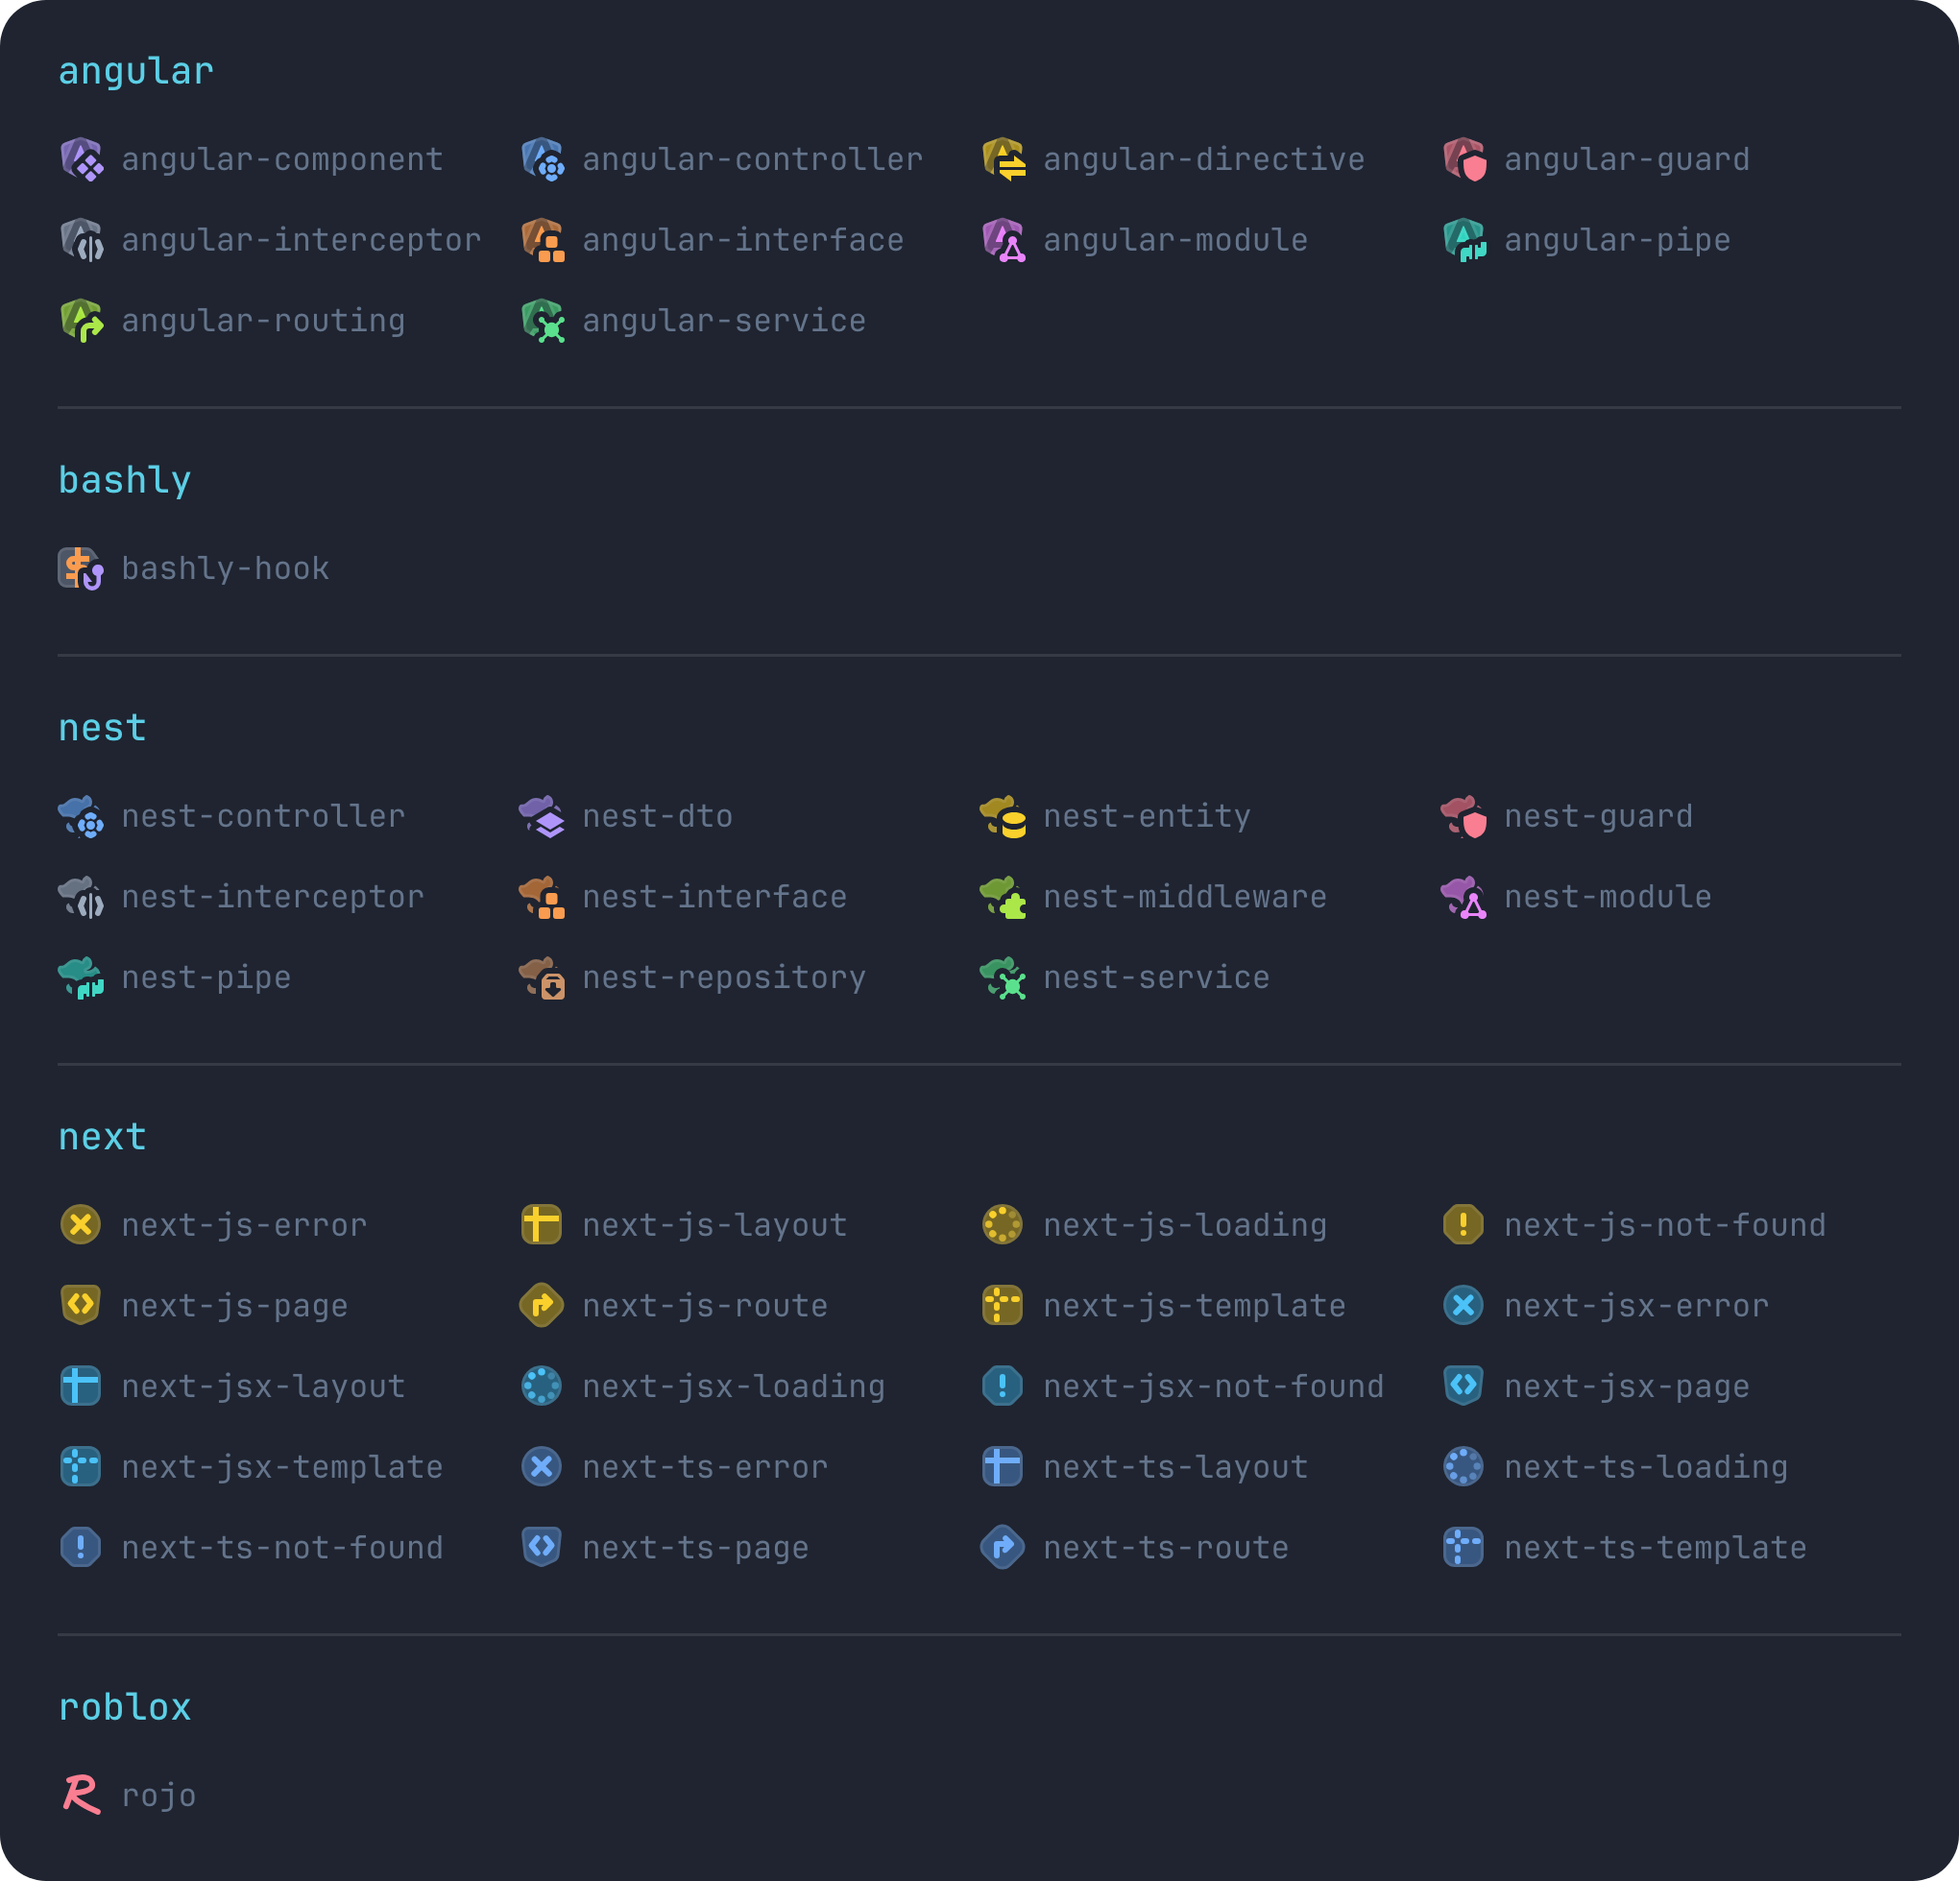
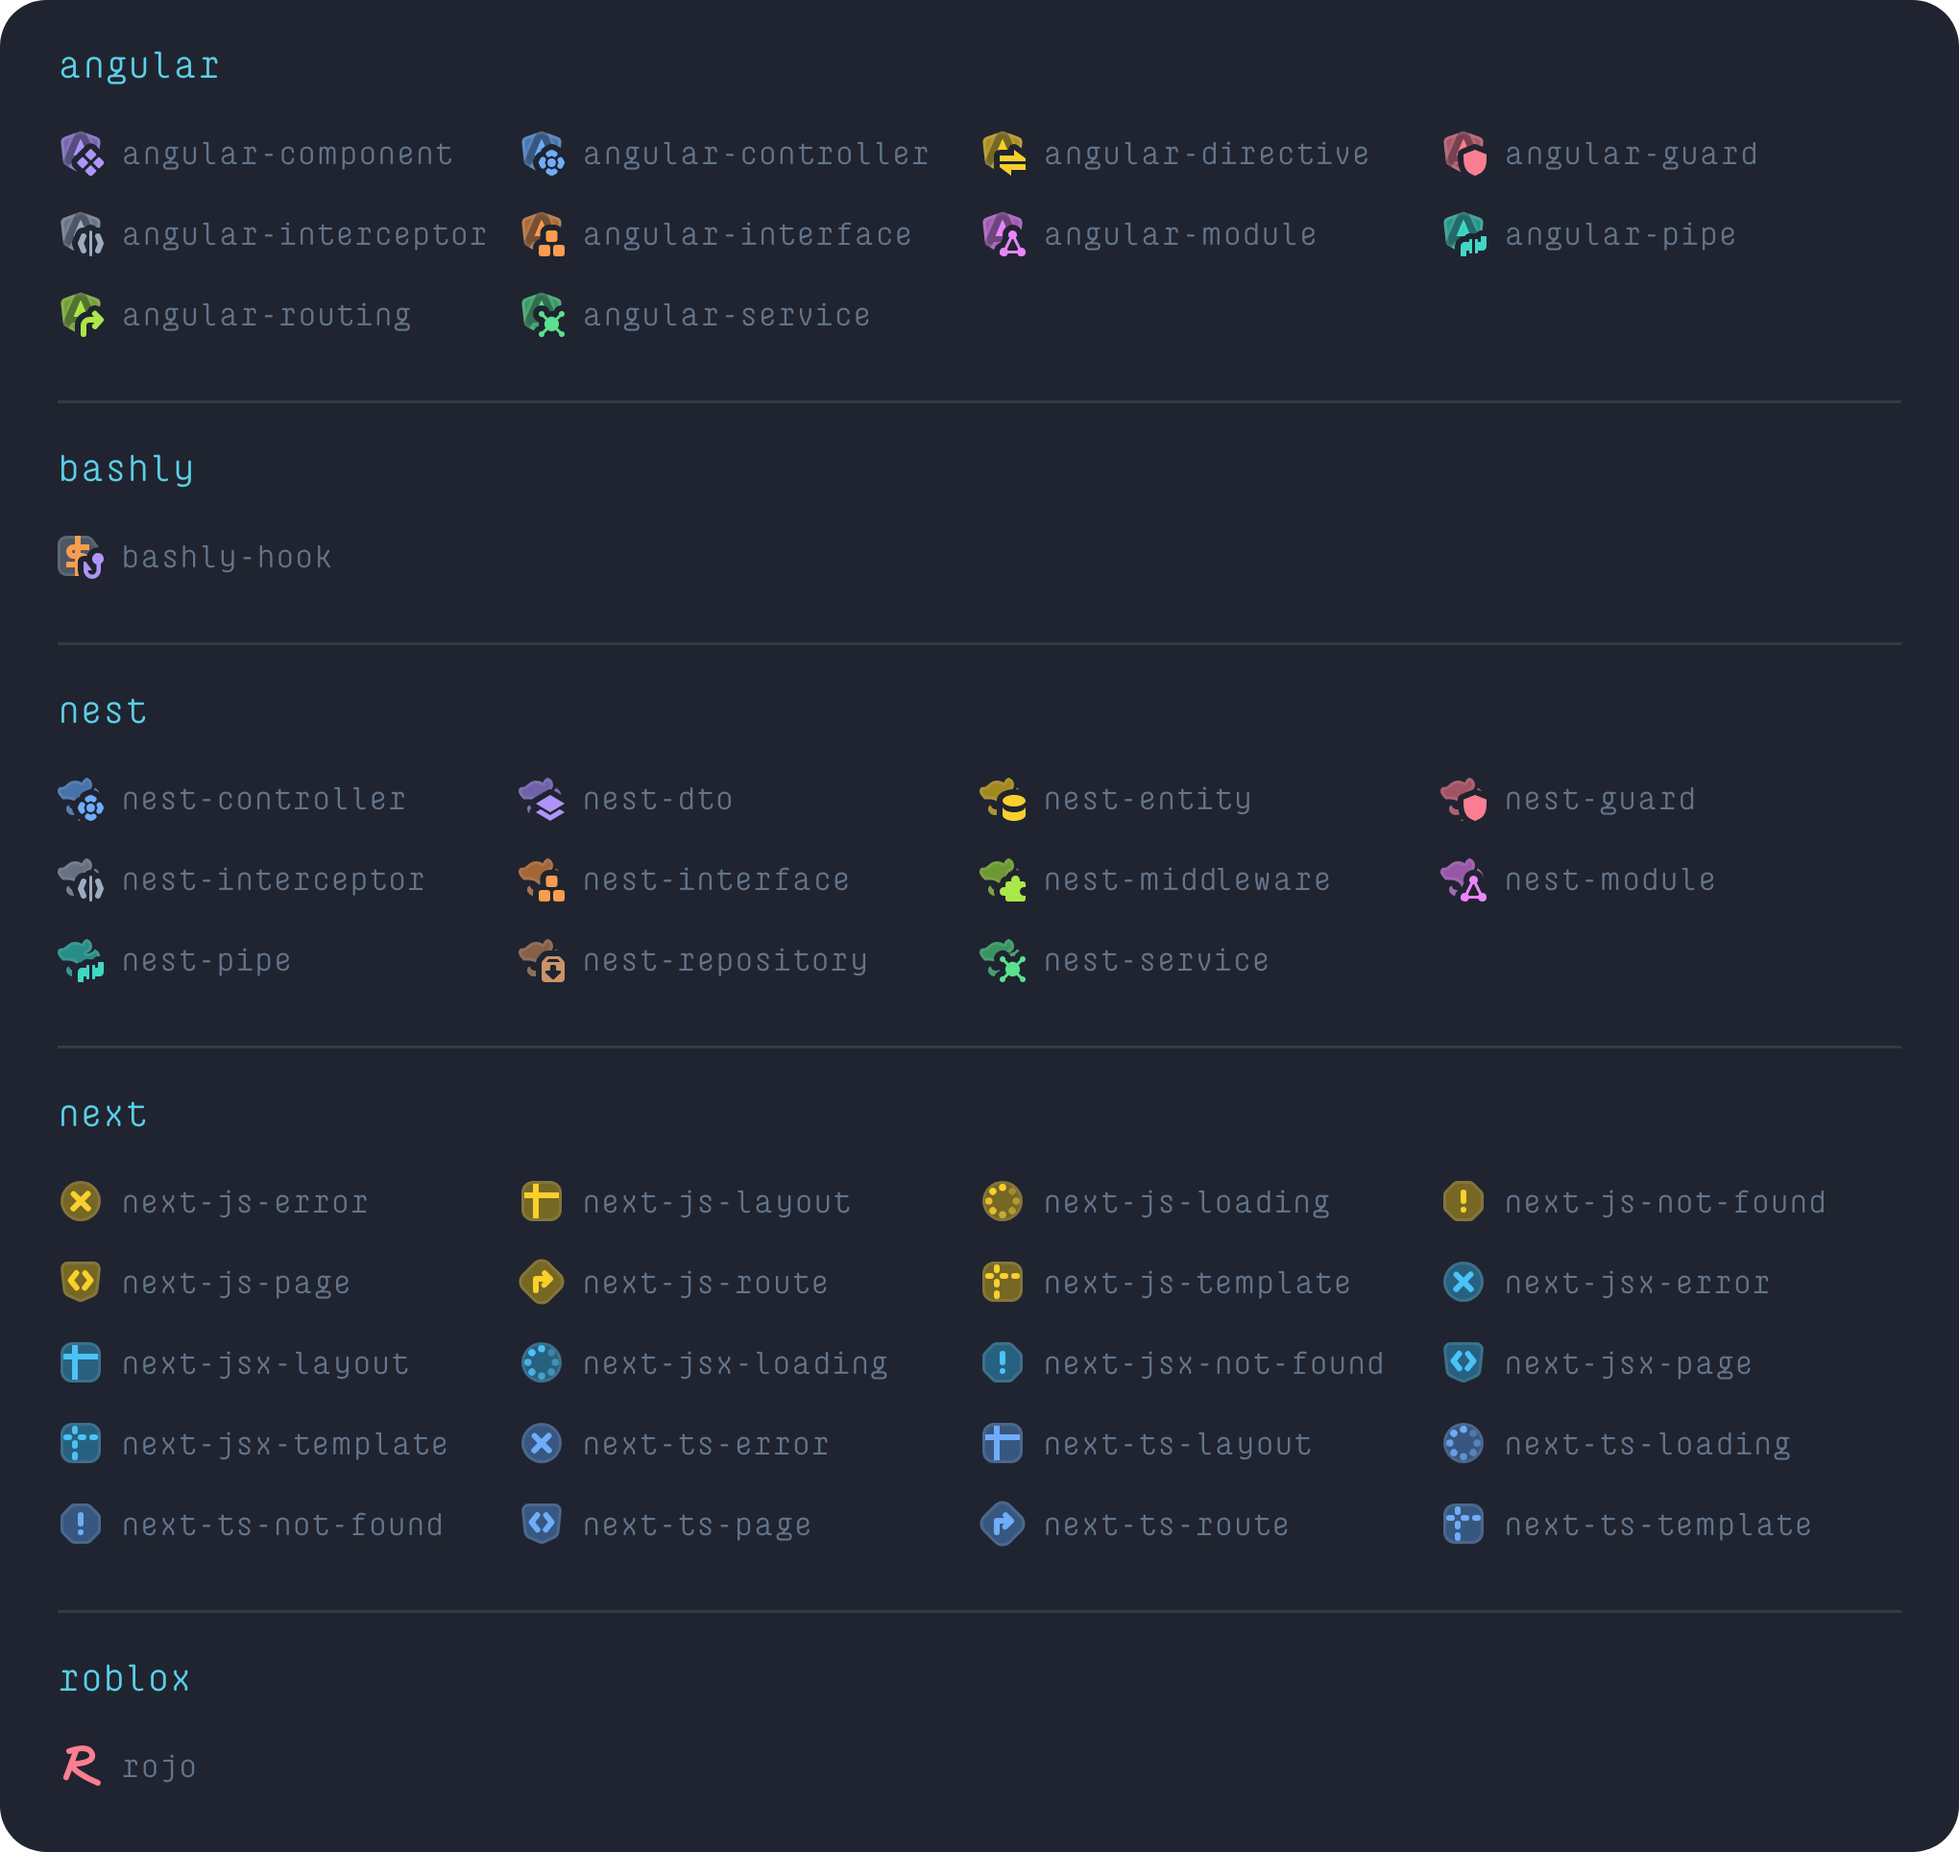
🌼 2.0.3

diff --git a/readme.md b/readme.md
@@ -33,6 +33,28 @@
   </picture>
 </p>
 
+## ✨ What's New
+
+### `Flow You` Icon Theme
+
+Introducing a whole new color palette made from your colors
+
+(See [Flow You](#flow-you) for more details)
+
+<img width="640" src="https://raw.githubusercontent.com/thang-nm/Flow-Icons/main/you/sequoia_moonlight.png">
+
+### Agents Window Support
+
+To make the icon theme work in the VS Code Agents window, add the following setting to your `settings.json`:
+
+(See [this](https://code.visualstudio.com/docs/copilot/agents/agents-window#_use-vs-code-extensions-in-the-agents-window) for more details)
+
+```json
+"extensions.supportAgentsWindow": {
+  "thang-nm.flow-icons": true
+}
+```
+
 ## Preview
 
 <p align="center">
@@ -101,26 +123,28 @@ To see all available options, open your settings UI and look for `Extensions > F
 
 ### Flow You
 
+<img width="640" src="https://raw.githubusercontent.com/thang-nm/Flow-Icons/main/you/ayu_dark.png">
+
 Icon theme based on your colors. You can customize the colors like the sample below:
 
 ```jsonc
 "flow-icons.you.colors": {
   // Dark theme colors
-  "white": "#fcfcfc",
-  "black": "#242936",
-  "blue": "#73d0ff",
-  "brown": "#d9be98",
-  "gray": "#6e7c8f",
-  "green": "#c0e479",
-  "lime": "#d5ff80",
-  "orange": "#ffa659",
-  "pink": "#ffadaf",
-  "purple": "#dfbfff",
-  "red": "#f28779",
-  "sky": "#5ccfe6",
+  "white": "#bfbdb6",
+  "black": "#0d1017",
+  "blue": "#59c2ff",
+  "brown": "#e6c08a",
+  "gray": "#667381",
+  "green": "#aad94c",
+  "lime": "#c0e76e",
+  "orange": "#ff8f40",
+  "pink": "#f6adae",
+  "purple": "#d2a6ff",
+  "red": "#f07178",
+  "sky": "#39bae6",
   "teal": "#95e6cb",
-  "yellow": "#ffcd66",
-  // "border": "#ffffff", // use the `white` color, but you can override it.
+  "yellow": "#ffcb8f",
+  // "border": "#ffffff", // use the `white`/`black` color, but you can override it.
   "borderOpacity": 0, // hide borders by setting opacity to 0.
 
   // Light theme colors are auto-generated from dark theme colors,
@@ -134,6 +158,8 @@ Icon theme based on your colors. You can customize the colors like the sample be
   },
 }
 ```
+
+See all sample palettes [here](https://github.com/thang-nm/Flow-Icons/tree/main/you).
 
 ### Custom icon associations
 

diff --git a/you/readme.md b/you/readme.md
@@ -1,0 +1,13 @@
+# Flow You
+
+## Ayu Dark
+
+<img width="640" src="https://raw.githubusercontent.com/thang-nm/Flow-Icons/main/you/ayu_dark.png">
+
+[ayu_dark.json](https://github.com/thang-nm/Flow-Icons/tree/main/you/ayu_dark.json)
+
+## Sequoia Moonlight
+
+<img width="640" src="https://raw.githubusercontent.com/thang-nm/Flow-Icons/main/you/sequoia_moonlight.png">
+
+[sequoia_moonlight.json](https://github.com/thang-nm/Flow-Icons/tree/main/you/sequoia_moonlight.json)
